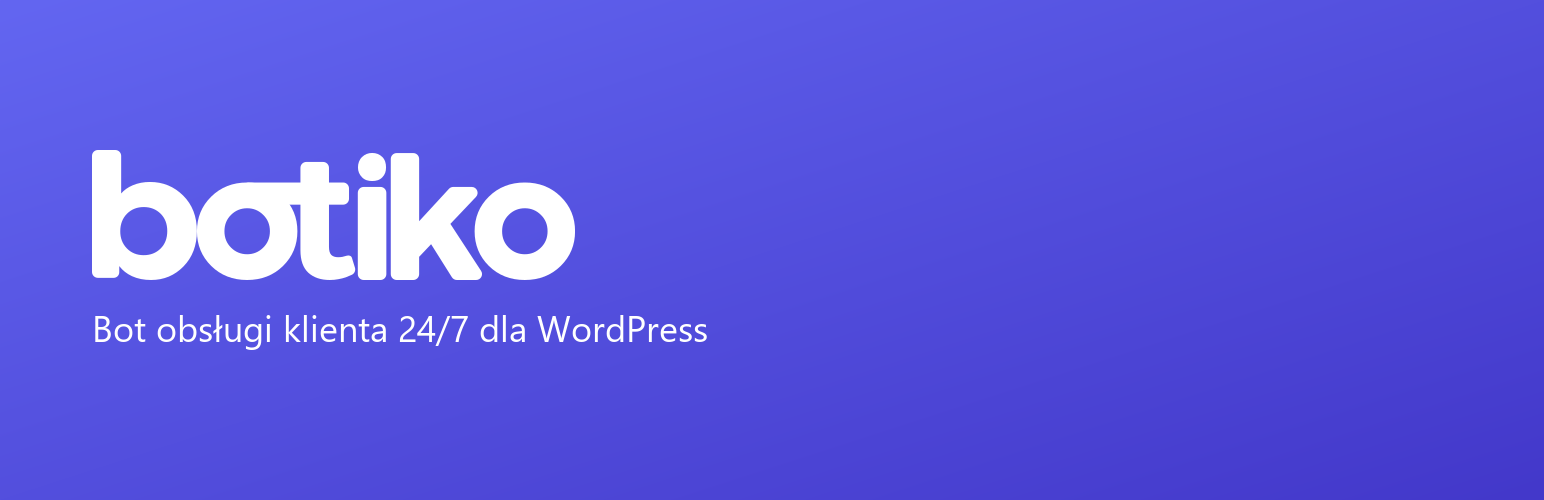
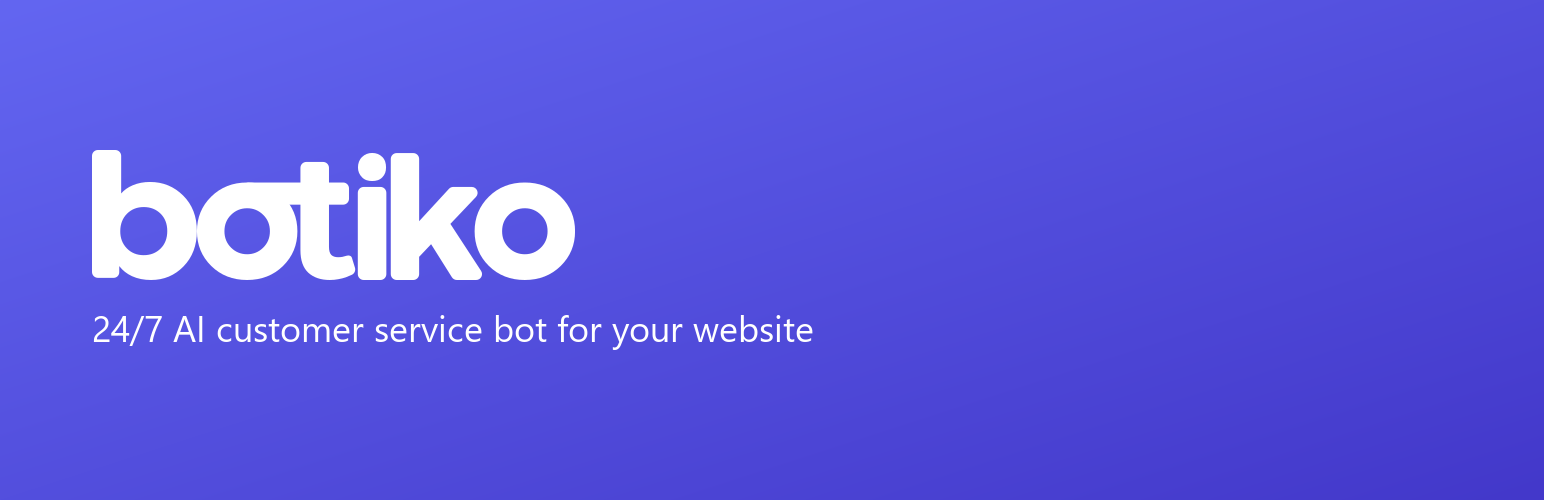
fix(wordpress): zgodność z oficjalnym Plugin Check (v1.0.3) (#78)
readme EN, Tested up to 7.0, usunięto load_plugin_textdomain, nazwa/opis EN, banner EN.

Changed region(s): [[0.0622, 0.63, 0.5285, 0.69]]

diff --git a/wordpress-plugin/botiko/botiko.php b/wordpress-plugin/botiko/botiko.php
@@ -1,9 +1,9 @@
 <?php
 /**
- * Plugin Name:       Botiko — bot obsługi klienta 24/7
+ * Plugin Name:       Botiko — AI Customer Service Bot
  * Plugin URI:        https://botiko.pl/integracje/wordpress
- * Description:        Dodaje do Twojej strony bota Botiko, który odpowiada klientom 24/7 i zbiera kontakty. Połącz stronę jednym kodem — bez edycji motywu.
- * Version:           1.0.2
+ * Description:        Add the Botiko customer-service bot to your site. It answers visitors 24/7 and captures leads. Connect your site with a single code, no theme editing.
+ * Version:           1.0.3
  * Requires at least: 5.8
  * Requires PHP:      7.4
  * Author:            Botiko
@@ -21,7 +21,7 @@ if ( ! defined( 'ABSPATH' ) ) {
 	exit;
 }
 
-define( 'BOTIKO_VERSION', '1.0.2' );
+define( 'BOTIKO_VERSION', '1.0.3' );
 define( 'BOTIKO_PLUGIN_FILE', __FILE__ );
 define( 'BOTIKO_PLUGIN_DIR', plugin_dir_path( __FILE__ ) );
 define( 'BOTIKO_PLUGIN_URL', plugin_dir_url( __FILE__ ) );

diff --git a/wordpress-plugin/botiko/includes/class-botiko.php b/wordpress-plugin/botiko/includes/class-botiko.php
@@ -89,17 +89,7 @@ final class Botiko {
 			$this->notices = new Botiko_Notices( $this->settings );
 		}
 
-		add_action( 'init', array( $this, 'load_textdomain' ) );
 		add_action( 'plugins_loaded', array( $this, 'init_modules' ) );
-	}
-
-	/**
-	 * Load translations.
-	 *
-	 * @return void
-	 */
-	public function load_textdomain() {
-		load_plugin_textdomain( 'botiko', false, dirname( BOTIKO_PLUGIN_BASENAME ) . '/languages' );
 	}
 
 	/**
